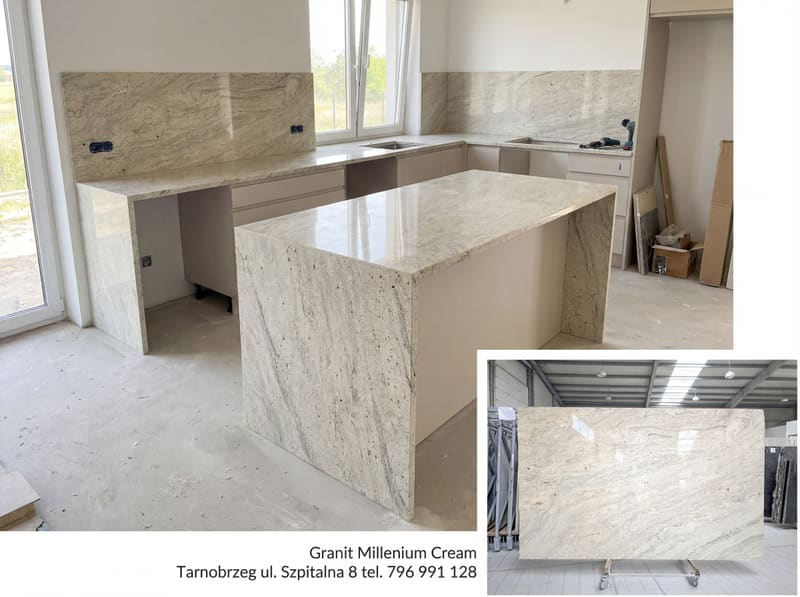
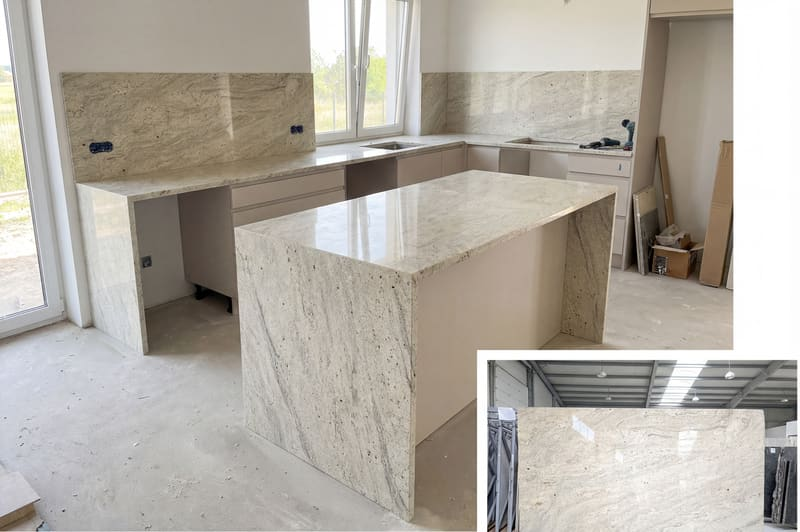
Miniatury galerii: domkniete pozostale 11 przypadkow
Poprzednia iteracja zostawila 8 zdjec "z podpisem obok kadru" i 3 bez
wykrytego podpisu. Po obejrzeniu CALYCH oryginalow (4800 px, z siatka
procentowa) okazalo sie, ze diagnoza byla niepelna: podpis w tych
grafikach TEZ jest na dole, tylko wpisany wprost na zdjecie zamiast
na jednolitym pasku — dlatego automat go nie widzial. Wyjatkiem jest
granit-star-galaxy, gdzie podpis siedzi w polowie kadru (y~75%),
a pod nim sa zdjecia plyty.

Wszystkie 11 zalatwione recznymi wartosciami zmierzonymi z siatki,
kazda sprawdzona na podgladzie po cieciu. Ciecie siega 25%, bo zabiera
tez mala wklejke ze zdjeciem plyty w rogu — swiadomie: w kafelku
galerii liczy sie zamontowany blat, nie zdjecie surowej plyty.

BILANS
  31 przyciete automatycznie
  10 przyciete recznie
   2 bez podpisu (granit-ciemny-wyspa, granit-ivory) — nie maja czego ciac
   0 zostawionych z podpisem

Duze wersje w lightboxie nadal nietkniete — sprawdzone wzgledem 1527701.

diff --git a/realizacje.html b/realizacje.html
@@ -907,7 +907,7 @@
              data-duze="/realizacje/granit-star-galaxy.webp" data-podpis="Granit Star Galaxy">
             <picture>
               <source srcset="/realizacje/granit-star-galaxy-mini.webp" type="image/webp" />
-              <img src="/realizacje/granit-star-galaxy-mini.jpg" width="768" height="1376"
+              <img src="/realizacje/granit-star-galaxy-mini.jpg" width="768" height="1032"
                    alt="Czarny blat ze złotymi drobinami — klasyk do ciemnych zabudów — Granit Star Galaxy. Blat kuchenny wykonany przez Kamieniarstwo 24h w Tarnobrzegu."
                    loading="lazy" decoding="async" />
             </picture>
@@ -967,7 +967,7 @@
              data-duze="/realizacje/granit-delicatus-wyspa.webp" data-podpis="Granit Delicatus">
             <picture>
               <source srcset="/realizacje/granit-delicatus-wyspa-mini.webp" type="image/webp" />
-              <img src="/realizacje/granit-delicatus-wyspa-mini.jpg" width="800" height="597"
+              <img src="/realizacje/granit-delicatus-wyspa-mini.jpg" width="800" height="532"
                    alt="Wyspa z blatem opuszczonym do podłogi, w komplecie z zabudową ścienną — Granit Delicatus. Blat kuchenny wykonany przez Kamieniarstwo 24h w Tarnobrzegu."
                    loading="lazy" decoding="async" />
             </picture>
@@ -1057,7 +1057,7 @@
              data-duze="/realizacje/granit-nero-zimbabwe-antico.webp" data-podpis="Granit Nero Zimbabwe, wykończenie antico">
             <picture>
               <source srcset="/realizacje/granit-nero-zimbabwe-antico-mini.webp" type="image/webp" />
-              <img src="/realizacje/granit-nero-zimbabwe-antico-mini.jpg" width="800" height="597"
+              <img src="/realizacje/granit-nero-zimbabwe-antico-mini.jpg" width="800" height="514"
                    alt="Czarny blat w wykończeniu antico — matowy, lekko strukturalny — Granit Nero Zimbabwe, wykończenie antico. Blat kuchenny wykonany przez Kamieniarstwo 24h w Tarnobrzegu."
                    loading="lazy" decoding="async" />
             </picture>
@@ -1072,7 +1072,7 @@
              data-duze="/realizacje/granit-bianco-perfetto.webp" data-podpis="Granit Bianco Perfetto">
             <picture>
               <source srcset="/realizacje/granit-bianco-perfetto-mini.webp" type="image/webp" />
-              <img src="/realizacje/granit-bianco-perfetto-mini.jpg" width="800" height="597"
+              <img src="/realizacje/granit-bianco-perfetto-mini.jpg" width="800" height="448"
                    alt="Jasny blat wyspy z bokiem opuszczonym do podłogi — Granit Bianco Perfetto. Blat kuchenny wykonany przez Kamieniarstwo 24h w Tarnobrzegu."
                    loading="lazy" decoding="async" />
             </picture>
@@ -1102,7 +1102,7 @@
              data-duze="/realizacje/granit-millenium-cream.webp" data-podpis="Granit Millenium Cream">
             <picture>
               <source srcset="/realizacje/granit-millenium-cream-mini.webp" type="image/webp" />
-              <img src="/realizacje/granit-millenium-cream-mini.jpg" width="800" height="597"
+              <img src="/realizacje/granit-millenium-cream-mini.jpg" width="800" height="532"
                    alt="Kremowy blat wyspy z bokiem opuszczonym do podłogi — Granit Millenium Cream. Blat kuchenny wykonany przez Kamieniarstwo 24h w Tarnobrzegu."
                    loading="lazy" decoding="async" />
             </picture>
@@ -1117,7 +1117,7 @@
              data-duze="/realizacje/granit-imperial-gold.webp" data-podpis="Granit Imperial Gold">
             <picture>
               <source srcset="/realizacje/granit-imperial-gold-mini.webp" type="image/webp" />
-              <img src="/realizacje/granit-imperial-gold-mini.jpg" width="800" height="597"
+              <img src="/realizacje/granit-imperial-gold-mini.jpg" width="800" height="448"
                    alt="Złocisty kamień na blacie i wysokiej płycie przyściennej — Granit Imperial Gold. Blat kuchenny wykonany przez Kamieniarstwo 24h w Tarnobrzegu."
                    loading="lazy" decoding="async" />
             </picture>
@@ -1273,7 +1273,7 @@
              data-duze="/realizacje/kwarcyt-taj-mahal-u.webp" data-podpis="Kwarcyt naturalny Taj Mahal, polerowany">
             <picture>
               <source srcset="/realizacje/kwarcyt-taj-mahal-u-mini.webp" type="image/webp" />
-              <img src="/realizacje/kwarcyt-taj-mahal-u-mini.jpg" width="800" height="597"
+              <img src="/realizacje/kwarcyt-taj-mahal-u-mini.jpg" width="800" height="496"
                    alt="Kuchnia w kształcie litery U — blat i płyta przyścienna z jednego kamienia — Kwarcyt naturalny Taj Mahal, polerowany. Blat kuchenny wykonany przez Kamieniarstwo 24h w Tarnobrzegu."
                    loading="lazy" decoding="async" />
             </picture>
@@ -1414,7 +1414,7 @@
              data-duze="/realizacje/konglomerat-taj-amelie.webp" data-podpis="Konglomerat kwarcowy Taj Amelie">
             <picture>
               <source srcset="/realizacje/konglomerat-taj-amelie-mini.webp" type="image/webp" />
-              <img src="/realizacje/konglomerat-taj-amelie-mini.jpg" width="800" height="597"
+              <img src="/realizacje/konglomerat-taj-amelie-mini.jpg" width="800" height="508"
                    alt="Blat o rysunku przypominającym kwarcyt, w kuchni z drewnem — Konglomerat kwarcowy Taj Amelie. Blat kuchenny wykonany przez Kamieniarstwo 24h w Tarnobrzegu."
                    loading="lazy" decoding="async" />
             </picture>
@@ -1429,7 +1429,7 @@
              data-duze="/realizacje/konglomerat-calacatta-aveyron.webp" data-podpis="Konglomerat kwarcowy Calacatta Aveyron">
             <picture>
               <source srcset="/realizacje/konglomerat-calacatta-aveyron-mini.webp" type="image/webp" />
-              <img src="/realizacje/konglomerat-calacatta-aveyron-mini.jpg" width="800" height="597"
+              <img src="/realizacje/konglomerat-calacatta-aveyron-mini.jpg" width="800" height="508"
                    alt="Biały blat z szarym żyłowaniem i pasującą płytą przyścienną — Konglomerat kwarcowy Calacatta Aveyron. Blat kuchenny wykonany przez Kamieniarstwo 24h w Tarnobrzegu."
                    loading="lazy" decoding="async" />
             </picture>

diff --git a/index.html b/index.html
@@ -271,7 +271,7 @@
       <a href="/realizacje#granit" aria-label="Blat z granitu Star Galaxy — zobacz galerię realizacji">
         <picture>
           <source srcset="/realizacje/granit-star-galaxy-mini.webp" type="image/webp" />
-          <img src="/realizacje/granit-star-galaxy-mini.jpg" width="768" height="1376"
+          <img src="/realizacje/granit-star-galaxy-mini.jpg" width="768" height="1032"
                alt="Czarny blat z granitu Star Galaxy ze złotymi drobinami — realizacja Kamieniarstwo 24h, Tarnobrzeg"
                loading="lazy" decoding="async" />
         </picture>
